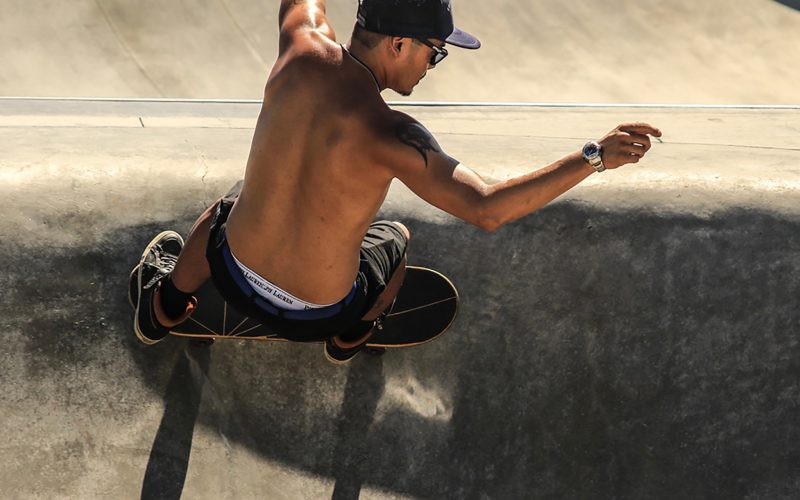
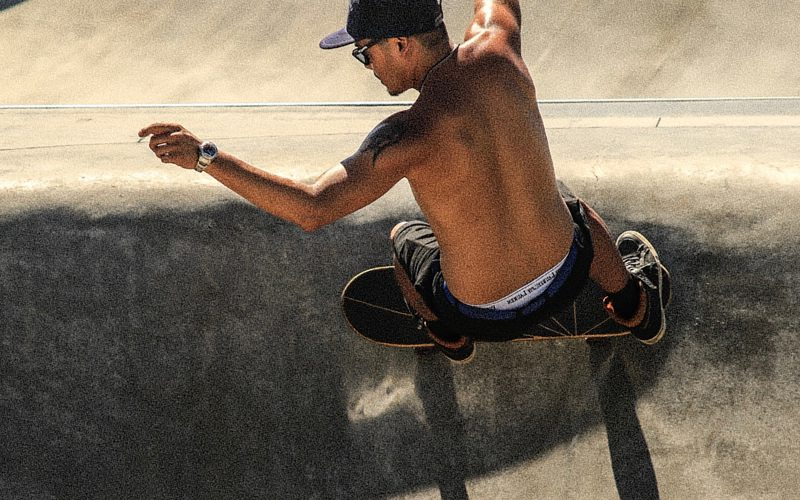
Shop

diff --git a/onlineStore/views/shop.html b/onlineStore/views/shop.html
@@ -1,0 +1,80 @@
+<!DOCTYPE html>
+<html lang="en">
+<head>
+    <meta charset="UTF-8">
+    <meta name="viewport" content="width=device-width, initial-scale=1.0">
+    <title>Store</title>
+    <link rel="stylesheet" href="../styles.css">
+    <link rel="stylesheet" href="../public/stylesheets/shop.css">
+</head>
+<body>
+    <nav>
+        <div class="dropdown-bars">
+            <button class="dropbtn-bars">DROP</button>
+            <div class ="dropdown-content-bars">
+                <button class="closebtn">&times;</button>
+                <a>Sign in</a>
+                <a href="Store.html">Store</a>
+                <a href="collections.html">Collections</a>
+                <a href="Blog.html">Blog</a>
+                <a style="color:red">Sale</a>
+
+            </div>
+        </div>  
+        <div class="m-navbar">
+            <ul>
+                <li><div class ="dropdown-store">
+                    <a class = "store-drp-btn" href="Collections.html">Collections</a>
+                    <div class ="dropdown-store-content">
+                        <div class="dropdown-category">
+                            <img  src="../public/assets/Skater.jpg">
+                            <a>category</a>
+                        </div>
+                        <div class="dropdown-category">
+                            <img  src="../public/assets/Skater.jpg">
+                            <a>category</a>
+                        </div>
+                        <div class="dropdown-category">
+                            <img  src="../public/assets/Skater.jpg">
+                            <a>category</a>
+                        </div>
+                        <div class="dropdown-category">
+                            <img  src="../public/assets/Skater.jpg">
+                            <a>category</a>
+                        </div>
+                    </div>
+                </div></li>
+                <li><a href="shop.html">Store</a></li>
+                <li><a href="Blog.html">Blog</a></li>
+                <li><a style="color:red">Sale</a></li>
+            </ul>
+        </div>
+        <h3 class="logo">Morning</h3>
+        <div class="s-navbar">
+            <ul >
+                <li><button>User</button></li>
+                <li><button>Cart</button></li>
+                <li class="search"><button>Search</i></button></li>
+            </ul>
+        </div>
+    </nav>
+
+    <section>
+        <div class="hero-image"></div>
+        <div class="hero-section">
+            <h4>The Store</h4>
+            <p>Choose well and buy less. We believe in owning fewer, quality things and making 
+            <br>them last a long time. That’s why if any of our product ever breaks down, you can 
+            <br>send it back to us and we’ll repair it.</p>
+        </div>
+    </section>
+
+    <section class="Store">
+        <div class="filter-container">
+            
+        </div>
+    </section>
+
+    <script src="../public/javascript/navbar.js"></script>
+</body>
+</html>

diff --git a/onlineStore/public/stylesheets/shop.css b/onlineStore/public/stylesheets/shop.css
@@ -1,0 +1,39 @@
+.hero-image{
+    background-image: url("../assets/Skater.jpg");
+    background-repeat: no-repeat;
+    width:100vw;
+    background-size: cover;
+    background-position: 30% 13%;
+    height:50vh;
+    zoom:1.2;
+}
+.hero-section{
+    background-color: white;
+    position: absolute;
+    top: 62vh;
+    padding: 30px 25px;
+
+    
+}
+.hero-section h4{
+    position: relative;
+        font-size: 20px;
+        color:#222;
+        font-weight: 300;
+}
+.hero-section h4:after{
+    content: "";
+    position: absolute;
+    background-color: #7c8d0f;
+    height: 3px;
+    width: 6%;
+    left: 0px;
+    bottom: -10px;
+}
+
+.hero-section p {
+    margin-top: 30px;
+    line-height: 2em;
+    font-weight: 200;
+}
+

diff --git a/onlineStore/views/navbar.html b/onlineStore/views/navbar.html
@@ -59,6 +59,10 @@
         </div>
     </nav>
 
+    <section class="hero-image">
+        
+    </section>
+
     <script src="../public/javascript/navbar.js"></script>
 </body>
 </html>

diff --git a/onlineStore/public/stylesheets/navbar.css b/onlineStore/public/stylesheets/navbar.css
@@ -99,9 +99,8 @@ nav {
     height: auto;
     opacity: 0.8;
     transition: 0.4s ease-in-out;
-
-
 }
+
 
 
 

diff --git a/onlineStore/styles.css b/onlineStore/styles.css
@@ -25,6 +25,7 @@ h2{
 h3{
     font-size: 20px;
     color:#222;
+    font-weight: 300;
 }
 
 h6{
